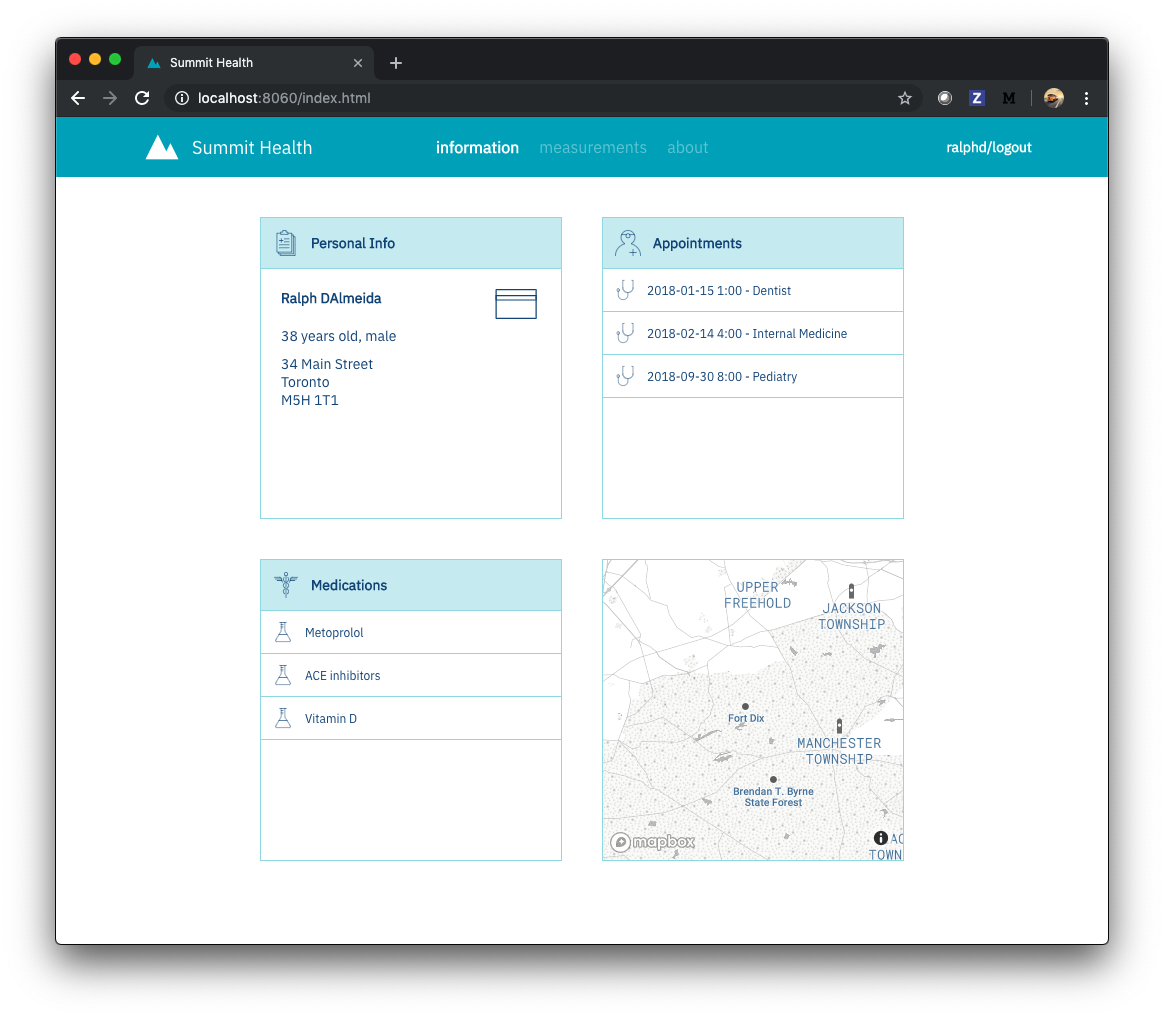
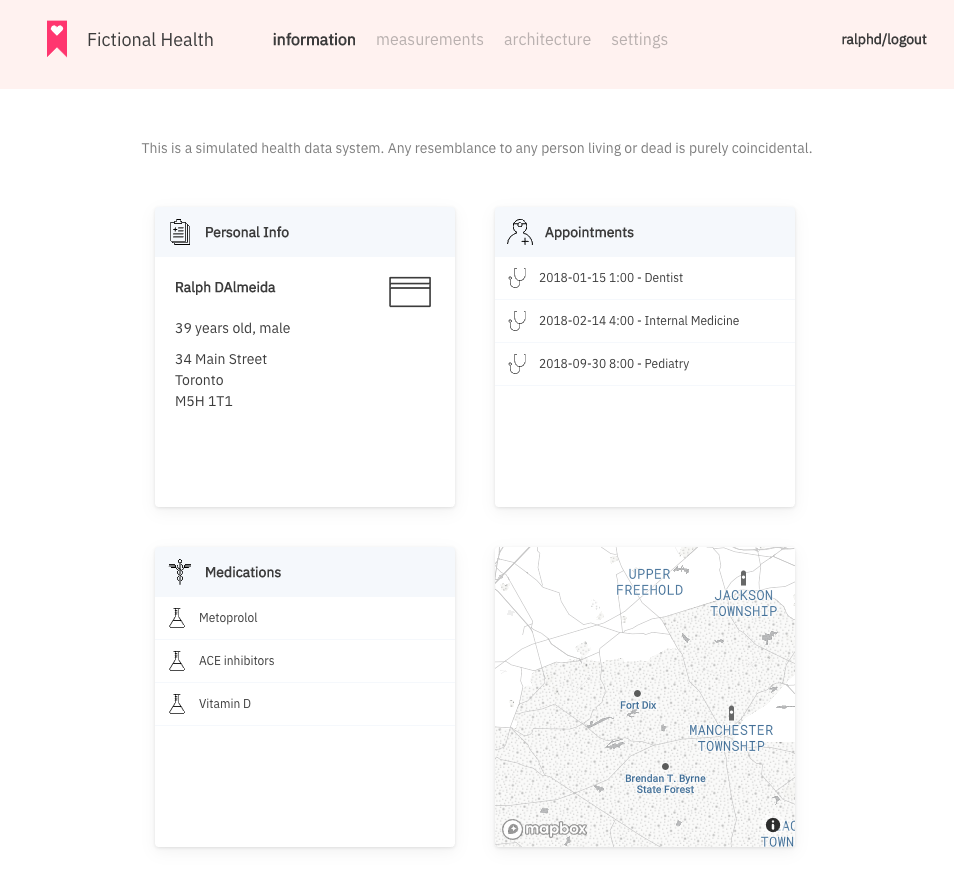
new screenshots

diff --git a/README.md b/README.md
@@ -10,12 +10,12 @@ The UI is served by a simple Node.JS Express server, and the overall project goa
 
 This project stands alone in test mode, or integrates with associated projects [ paths to other projects ]
 
-![architecture](./design/architecture@2x.png)
+![architecture](./design/app-modernization-openshift-s2i-architecture-diagram.png)
 
 
-#### Example Health Context
+#### Example Health Background Story
 
-Example Health is a fictional, conceptual healthcare/insurance type company. It is imagined to have been around a long time, and has 100s of thousands of patient records in an SQL database connected to a either a mainframe, or a monolithic Java backend.
+Example Health is a pretend, conceptual healthcare/insurance type company. It is imagined to have been around a long time, and has 100s of thousands of patient records in an SQL database connected to a either a mainframe, or a monolithic Java backend.
 
 The business rules for the system is written in COBOL or Java. It has some entitlement rules, prescription rules, coverage rules coded in there.
 
@@ -25,7 +25,7 @@ Here's a view a client might see when they log in:
 
 ![screenshot](./design/mockup.png)
 
-Example has recently started understanding how machine learning on some of the patient records, might surface interesting insights. There is lots of talk about this among some of the big data companies.
+Example Health business leaders have recently started understanding how machine learning using some of the patient records, might surface interesting insights that would benefit patients. There is lots of talk about this among some of the big data companies.
 
 https://ai.googleblog.com/2018/05/deep-learning-for-electronic-health.html
 
@@ -33,14 +33,12 @@ https://blog.adafruit.com/2018/04/16/machine-learning-helps-to-grok-blood-test-r
 
 [ concept screenshot to come ]
 
-Example has also heard a lot about cloud computing. There is a lot of traditional code in the mainframe, and it works well for now ... but Example think it may be a complimentary opportunity to explore some machine learning in the cloud ( either public or private )
-
-Their CTO sees an architecture like this:
+Example has also heard a lot about cloud computing. There is a lot of traditional code in the mainframe and in classic Java app servers. It works well for now ... but some of the software architects think it may be complimentary to explore some machine learning, and to accelerate development of new user interfaces in the cloud ( either public or private )
 
 
 #### Project aims
 
-This project aims to create a minimal data record system to flesh out this example - showing some cobol/java in action on a mainframe. Triggering a machine learning event using cloud functions, when a patient bloodtest record updates. Showing the new private cloud working alongside the old mainframe technology, and giving us a reference example to carve off pattern excerpts in an interesting collection.
+In this repo there is a patient user interface. It is written using plain HTML, CSS and JavaScript served from a Node.js microservice. The code runs by default with test/demo data, that doesn't rely on a more sophisticated server. The following installation steps can help you easily deploy this using OpenShift S2I ( source to image ).
 
 ### Installation
 
@@ -52,14 +50,34 @@ Next, you will need a fork of this repository. Scroll back up to the top of this
 
 Select your github user name from the pop-up window.
 
-To deploy your just-forked repository, go to the Web Console for your OpenShift cluster and click on the 'Node.js' icon.
+To deploy your just-forked repository, go to the Web Console for your OpenShift cluster and create a project:
+
+![create project](./images/createproject.png)
+
+Click on your new project. You should see a view that looks like this:
+
+![project](./images/projectview.png)
+
+Click on the browse catalog button to see the images available to build with and scroll down to the Node image. Click on the 'Node.js' icon.
 
 ![node](./images/node.png)
 
-In the following window, first click 'next' and then select 'advanced options' towards the bottom.
+Click through to the second step for configuration, and choose advanced options ( a hyperlink on the bottom line )
 
-![config](./images/config.png)
+![config](./images/advanced.png)
 
-Use `https://github.com/<your github id>/Example-health-patient-records` for the Git Repository URL and `/site` for the Context Dir. Click 'Create' at the bottom of the window to build and deploy the application.
+You'll see and advanced form like this:
 
-Once the app is deployed, you will need to change the port number in the service and the route.  Click on both, choose 'Edit YAML' from the drop-down menu in the uppper right, and change all instances of `8080` to `8060`. Click on the route provided, and login to your new app!
+![form](./images/node-advanced-form.png)
+
+Enter your forked Git Repository URL and `/site` for the Context Dir. Click 'Create' at the bottom of the window to build and deploy the application. Scroll through to watch the build deploying:
+
+![build](./images/build.png)
+
+When the build has deployed, click the External Traffic Route, and you should see the login screen:
+
+![login](./images/login.png)
+
+You can enter any strings for username and password, for instance test/test ... because the app is just running in demo mode.
+
+And you've deployed a node app to kubernetes using OpenShift S2I.
